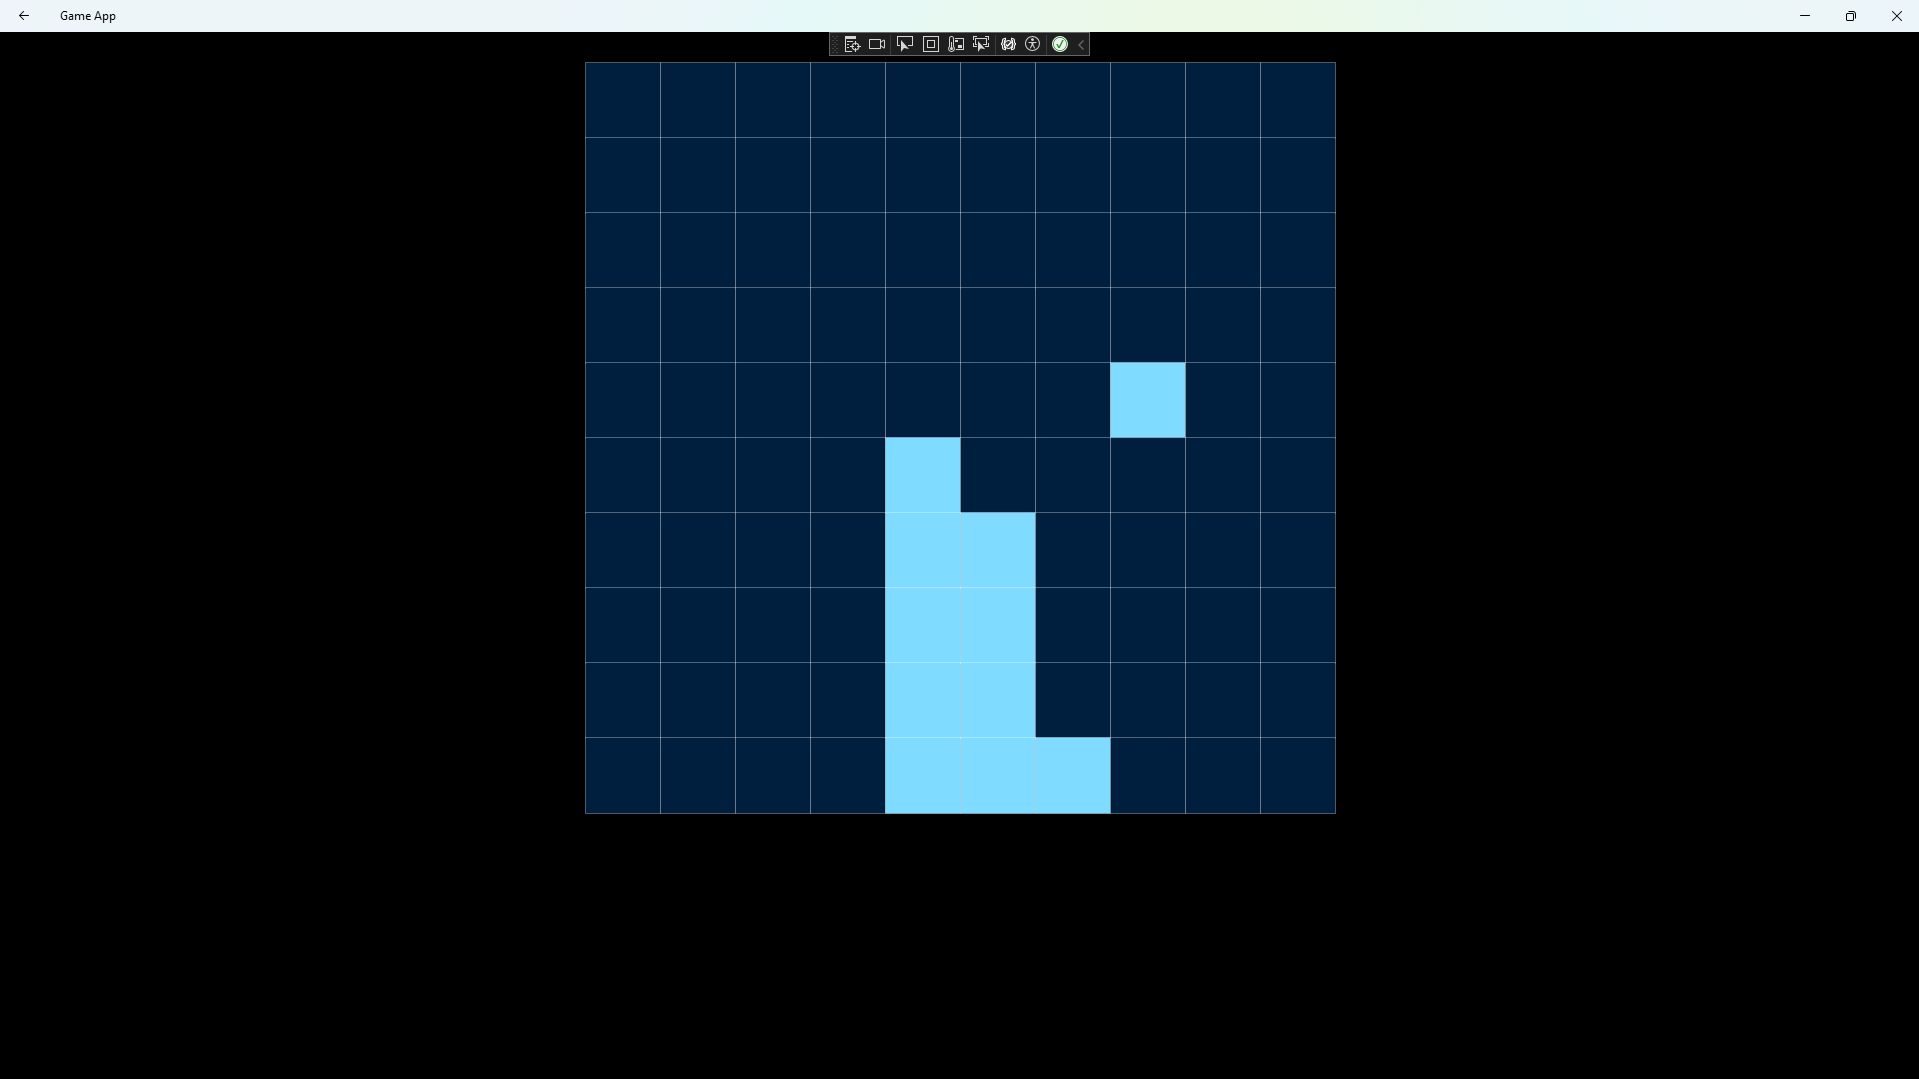
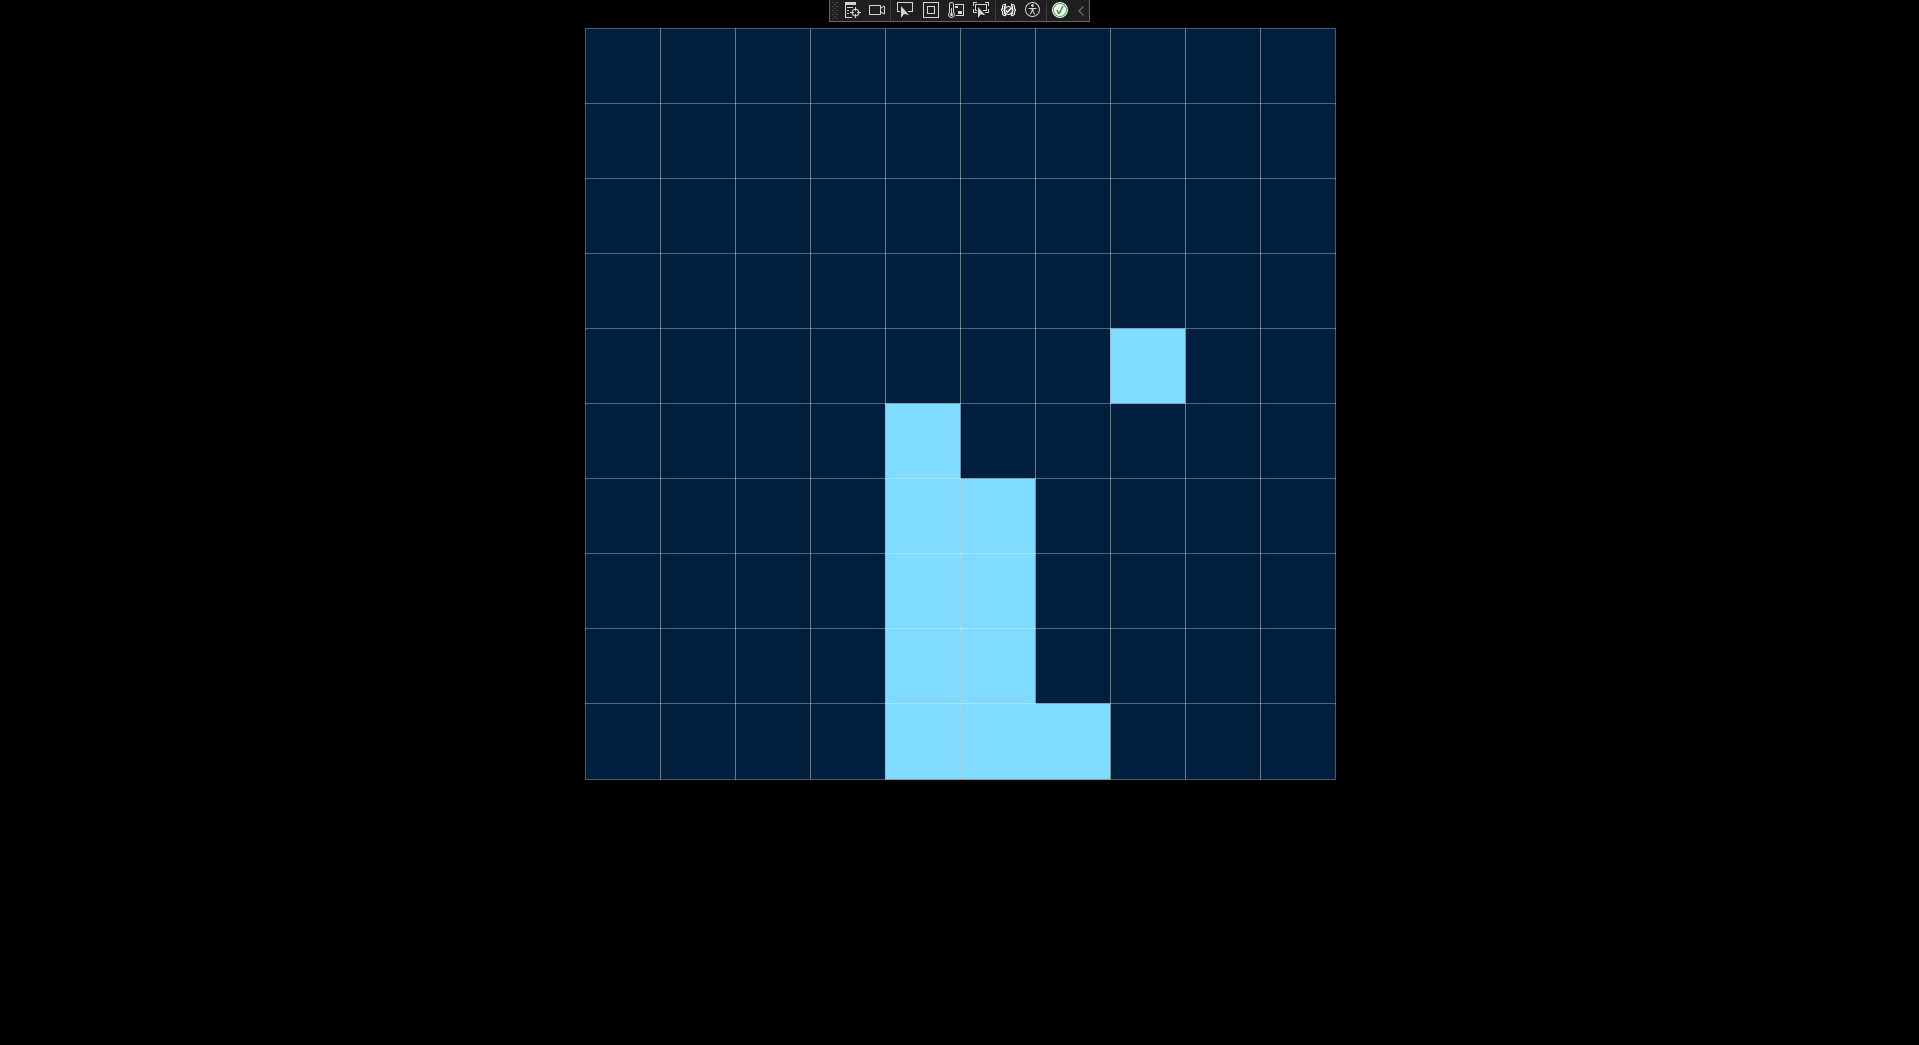
Cropped images in readme and added image to readme

diff --git a/README.md b/README.md
@@ -5,4 +5,9 @@ The goal is to stack blocks all the way to the top. The blocks move back and for
 I implemented a custom animation system that controls block movement, frame updates, user input, and timing. 
 This game does not rely on built-in animation tools like Storyboard or Composition; instead, it uses a canvas that I 
 manipulate by drawing each frame manually.
+## Main Menu Screen
+![Main Menu Screen](Game%20App/Images/MenuScreen.png)
+## Game Play Screen
 ![Game Play Screen](Game%20App/Images/GameplayScreen.png)
+
+
